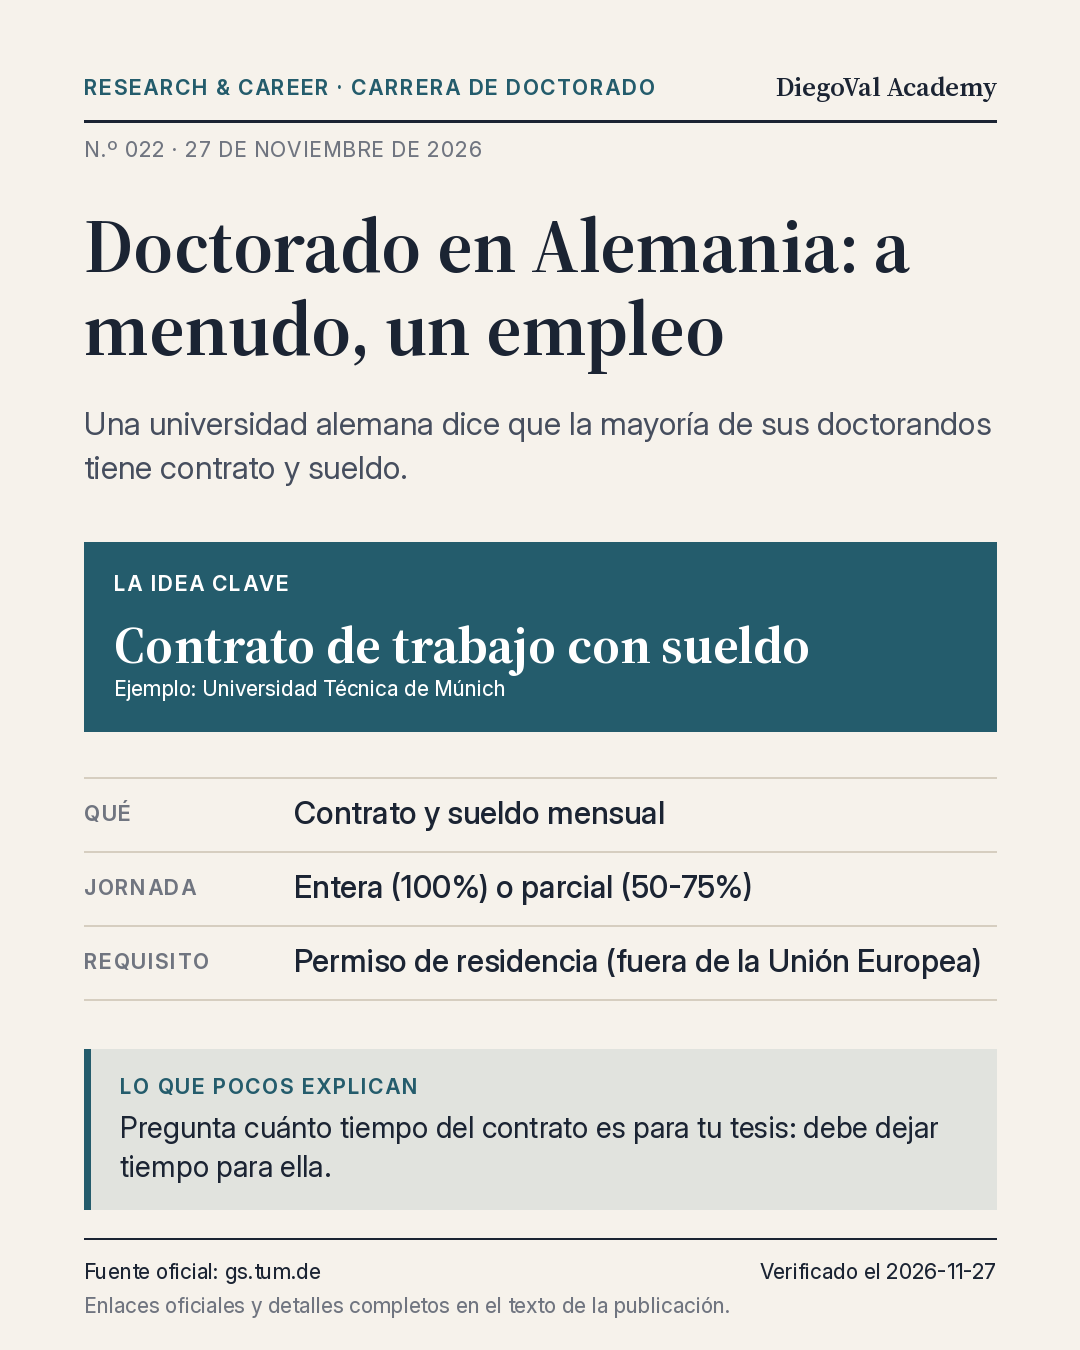
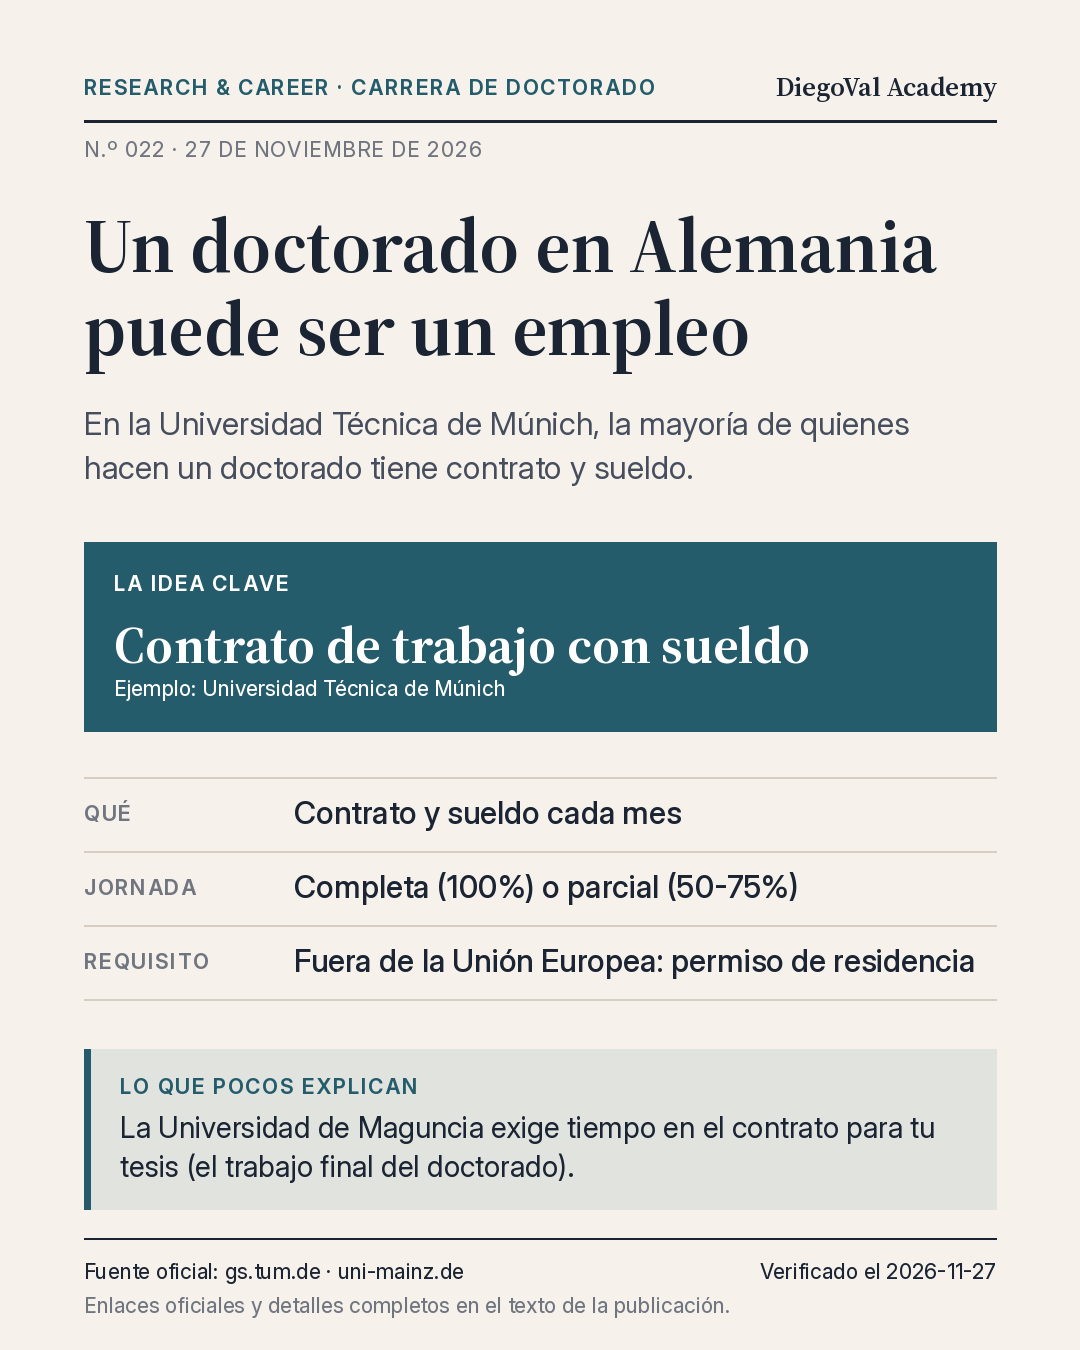
2026-11-27_viernes_doctorado-empleo-alemania: correcciones tras 1.ª verificación (borrador)
Claude-Session: https://claude.ai/code/session_01HRCw35Rtn3WMs9MiQSR8Qf

diff --git a/posts/2026-11-27_viernes_doctorado-empleo-alemania/caption.md b/posts/2026-11-27_viernes_doctorado-empleo-alemania/caption.md
@@ -1,16 +1,16 @@
-¿Crees que un doctorado en Europa siempre es una beca? En Alemania muchas veces es un trabajo con contrato.
+¿Crees que un doctorado en Europa siempre es una beca? En Alemania, a veces es un trabajo con contrato.
 
 En corto:
-• Qué es: la Universidad Técnica de Múnich (TUM) explica que la mayoría de sus doctorandos están contratados como asistentes de investigación y reciben un sueldo cada mes.
-• Jornada: las ofertas suelen ser de jornada entera (100%) o parcial (50-75%).
-• Qué haces: además de tu tesis, haces tareas de investigación y de docencia (dar clases o ayudar en ellas).
-• Fuera de la Unión Europea: necesitas un permiso de residencia que te deje trabajar en Alemania.
+• Qué es: la Universidad Técnica de Múnich (TUM) explica que la mayoría de sus doctorandos (personas que hacen un doctorado) están contratados como ayudantes de investigación y reciben un sueldo cada mes.
+• Jornada: las ofertas suelen ser de jornada completa (100%) o parcial (50-75%).
+• Qué haces: además de tu tesis (el trabajo final del doctorado), investigas y das clases.
+• Si vienes de fuera de la Unión Europea: necesitas un permiso de residencia que te deje trabajar en Alemania.
 
-Lo que pocos explican: la Universidad de Maguncia dice que el contrato debe dejar tiempo para tu propio trabajo académico (tu tesis). Antes de aceptar, pregunta cuánto tiempo es para ella y deja el acuerdo claro con tu director o directora.
+Lo que pocos explican: la Universidad de Maguncia dice que el contrato debe dejar tiempo para tu propia tesis. Antes de aceptar, pregunta cuánto tiempo es.
 
 Cómo empezar:
-1. Abre el portal de empleo de una universidad alemana y busca la palabra "doctoral" (doctorando).
-2. Mira el porcentaje del puesto (100%, 75%, 50%) antes de leer lo demás.
+1. Abre el portal de empleo de una universidad alemana y busca la palabra "doctoral" (de doctorado).
+2. Mira cuánto de la jornada completa trabajarás (100%, 75%, 50%).
 3. Esta semana: guarda tres ofertas y compara qué pide cada una.
 
 Página oficial: https://www.gs.tum.de/en/gs/path-to-a-doctorate/funding/tum-employment-contract/

diff --git a/posts/2026-11-27_viernes_doctorado-empleo-alemania/caption_instagram.md b/posts/2026-11-27_viernes_doctorado-empleo-alemania/caption_instagram.md
@@ -1,14 +1,14 @@
 ¿Doctorado en Alemania = beca? No siempre. 🇩🇪
 
-La Universidad Técnica de Múnich (TUM) explica que la mayoría de sus doctorandos tienen contrato de trabajo y sueldo mensual.
+La Universidad Técnica de Múnich (TUM) dice que la mayoría de sus doctorandos (personas que hacen un doctorado) tienen contrato de trabajo y sueldo cada mes.
 
-✅ Jornada entera (100%) o parcial (50-75%)
-✅ Además de la tesis, haces investigación y docencia
+✅ Jornada completa (100%) o parcial (50-75%)
+✅ Además de su tesis (el trabajo final del doctorado), investigan y dan clases
 ✅ Si vienes de fuera de la Unión Europea: permiso de residencia para trabajar
 
-Antes de aceptar, pregunta cuánto tiempo del contrato es para tu tesis.
+La Universidad de Maguncia exige que el contrato deje tiempo para tu tesis. Pregunta cuánto.
 
-Esta semana: guarda tres ofertas de doctorado y compara el porcentaje de cada una. Información oficial en gs.tum.de
+Esta semana: guarda tres ofertas de doctorado y compáralas. Información oficial en gs.tum.de
 
 Verificado el: 2026-11-27
 

diff --git a/posts/2026-11-27_viernes_doctorado-empleo-alemania/validation.md b/posts/2026-11-27_viernes_doctorado-empleo-alemania/validation.md
@@ -1,6 +1,6 @@
 # Validación — 2026-11-27_viernes_doctorado-empleo-alemania
 
-Ejecutado: 2026-11-27T07:09:18+01:00
+Ejecutado: 2026-11-27T07:10:29+01:00
 Decisión: **BLOQUEADA: no publicar**
 
 | Estado | Comprobación | Detalle |
@@ -10,7 +10,7 @@ Decisión: **BLOQUEADA: no publicar**
 | PASS | Imagen | 1080x1350 PNG, 1 archivo (+5 diapositivas de carrusel, ignoradas) |
 | PASS | Canal Buffer | DiegoVal Academy (6ae0bdf22f1f5ed648eb92f9) |
 | PASS | Verificación del día | 2026-11-27 |
-| PASS | Longitud del texto | 1282/1300 caracteres |
+| PASS | Longitud del texto | 1218/1300 caracteres |
 | PASS | Fecha visible en el texto | Verificado el: 2026-11-27 |
 | PASS | Marcadores pendientes | ninguno |
 | PASS | Enlaces documentados en sources.md | 2 enlaces |

diff --git a/posts/2026-11-27_viernes_doctorado-empleo-alemania/sources.md b/posts/2026-11-27_viernes_doctorado-empleo-alemania/sources.md
@@ -1,6 +1,6 @@
 # Fuentes - Research & Career (viernes) 2026-11-27
 Categoría: carrera_phd. Último viernes: programa_red (2026-11-20). Consulta: 2026-11-27, ~07:30 Europe/Stockholm (WebFetch).
-Tema: cómo es un doctorado en Alemania con contrato de trabajo (ejemplo de una universidad; no se generaliza a todo el país).
+Tema: cómo es un doctorado en Alemania con contrato de trabajo (ejemplo de TUM; la regla del tiempo para la tesis es de Maguncia; no se generaliza a todo el país).
 
 | URL | Campo | Cita literal |
 |---|---|---|
